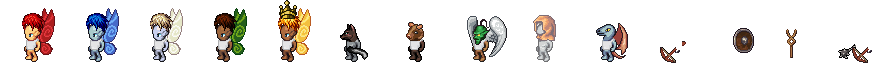
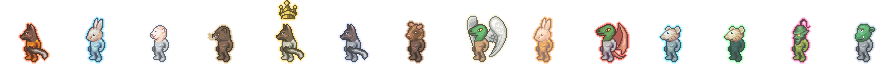
소환수를 모두 정령 같은 동물로: 동물 머리 + 속성 색 빛·반투명, 무기 그림 제거 (기공사 소환수는 번개 쥐·수호 쥐·광선 도깨비·철갑 트롤)
Claude-Session: https://claude.ai/code/session_01HhJ2NoNCjk5kaA3GWL7UDs

diff --git a/tools/iso/lpc/pet_lpc.py b/tools/iso/lpc/pet_lpc.py
@@ -1,4 +1,4 @@
-# 소환수·포탑을 LPC 부품으로 조립 → public/art/pets.png (64칸 14개, 왼쪽(적 쪽)을 보고 서 있는 모습)
+# 소환수(정령 같은 동물)를 LPC 부품으로 조립 → public/art/pets.png (64칸 14개, 왼쪽(적 쪽)을 보고 서 있는 모습)
 #   python3 pet_lpc.py <LPC 저장소 경로> [미리보기.png]   순서는 index.html의 XPETI(이름 → 칸)와 같아요
 import sys, os, subprocess
 sys.argv = sys.argv[:3]
@@ -11,23 +11,28 @@ SK = lambda dst, src='light': ('body', src, dst)
 CL = lambda dst: ('cloth', 'white', dst)
 HR = lambda dst: ('hair', 'orange', dst)
 CH = 'body/bodies/child'; SHIRT = 'torso/clothes/shirt/child'
-def spirit(skin, cloth, hair, wing, hat=None):
-    L = [(5, 'body/wings/pixie/solid', wing, None), (10, CH, None, SK(skin)), (100, 'head/heads/human/child', None, SK(skin)), (35, SHIRT, None, CL(cloth)), (120, 'hair/messy1', None, HR(hair)), (110, 'head/ears/elven/child', None, SK(skin))]
-    if hat: L.append((126, hat, None, None))
-    return L
-PETS = [  # 이름, 몸 체형, 층들, 알파
- ('불 정령', 'child', spirit('amber', 'red', 'red', 'red'), 1), ('물 정령', 'child', spirit('blue', 'sky', 'blue', 'blue'), 1),
- ('바람 정령', 'child', spirit('lavender', 'white', 'platinum', 'white'), 1), ('대지 정령', 'child', spirit('brown', 'forest', 'dark_brown', 'green'), 1),
- ('정령왕', 'child', spirit('bronze', 'yellow', 'gold', 'yellow', 'hat/formal/crown'), 1),
- ('늑대', 'child', [(5, 'body/tail/wolf/child', 'gray', None), (10, CH, None, SK('fur_grey')), (100, 'head/heads/wolf/child', None, None), (125, 'body/tail/wolf/child', 'gray', None)], 1),
- ('곰', 'child', [(10, CH, None, SK('fur_brown')), (100, 'head/heads/minotaur/child', None, None), (35, SHIRT, None, CL('brown'))], 1),
- ('독수리', 'child', [(5, 'body/wings/feathered/adult/bg', 'brown', None), (10, CH, None, SK('fur_tan')), (100, 'head/heads/goblin/child', None, None), (35, SHIRT, None, CL('tan')), (105.5, 'body/wings/feathered/adult/fg', 'brown', None)], 1),
- ('호박 유령', 'child', [(10, CH, None, SK('fur_white')), (100, 'head/heads/human/child', None, SK('fur_white')), (126, 'hat/cloth/hood', None, CL('orange'))], .62),
- ('용', 'child', [(5, 'body/wings/lizard/adult', None, None), (5.5, 'body/tail/lizard/child', None, None), (10, CH, None, SK('blue')), (100, 'head/heads/lizard/child', None, SK('blue', 'green')), (35, SHIRT, None, CL('maroon'))], 1),
- ('소형 포탑', 'male', [(10, 'weapon/ranged/crossbow/walk/crossbow.png', 'RAW', None), (9, 'weapon/ranged/crossbow/background/walk/crossbow.png', 'RAW', None), (11, 'weapon/ranged/crossbow/foreground/walk/crossbow.png', 'RAW', None)], 1),
- ('보조 포탑', 'male', [(10, 'shield/round/walk.png', 'RAWF', None)], 1),
- ('레이저 포탑', 'male', [(9, 'weapon/magic/diamond/universal/background/walk/diamond.png', 'RAW', None), (10, 'weapon/magic/diamond/universal/foreground/walk/diamond.png', 'RAW', None)], 1),
- ('요새 포대', 'male', [(10, 'weapon/blunt/mace/walk/mace.png', 'RAW', None), (9, 'weapon/blunt/mace/universal_behind/walk/mace.png', 'RAW', None), (11, 'weapon/ranged/crossbow/foreground/walk/crossbow.png', 'RAW', None)], 1),
+# 소환수는 모두 정령 같은 동물: 동물 머리 + 꼬마 몸(맨몸) + 속성 색 빛(번짐·반투명). 무기·옷 없음
+AU = lambda dst: ('body', 'auto', dst)
+def animal(head, skin, glow, extra=(), alpha=.86, tail=None):
+    L = [(10, CH, None, AU(skin)), (100, 'head/heads/' + head, None, None)] + list(extra)
+    if tail: L = [(5, tail, 'gray', None), (125, tail, 'gray', None)] + L
+    return (L, glow, alpha)
+CH = 'body/bodies/child'
+PETS = [  # 이름, 몸 체형, (층들, 빛 색, 투명도)
+ ('불 정령', 'child', animal('wolf/child', 'fur_copper', (255, 110, 50), tail='body/tail/wolf/child')),
+ ('물 정령', 'child', animal('rabbit/child', 'blue', (90, 210, 255))),
+ ('바람 정령', 'child', animal('sheep/child', 'fur_white', (225, 240, 255), alpha=.8)),
+ ('대지 정령', 'child', animal('boarman/child', 'fur_brown', (200, 160, 90))),
+ ('정령왕', 'child', animal('wolf/child', 'fur_white', (255, 214, 90), extra=[(126, 'hat/formal/crown', None, None)], tail='body/tail/wolf/child')),
+ ('늑대', 'child', animal('wolf/child', 'fur_grey', (200, 215, 255), tail='body/tail/wolf/child')),
+ ('곰', 'child', animal('minotaur/child', 'fur_brown', (170, 115, 70))),
+ ('독수리', 'child', animal('lizard/child', 'fur_tan', (240, 232, 190), extra=[(5, 'body/wings/feathered/adult/bg', 'brown', None), (105.5, 'body/wings/feathered/adult/fg', 'brown', None)])),
+ ('호박 유령', 'child', animal('rabbit/child', 'fur_copper', (255, 150, 40), alpha=.6)),
+ ('용', 'child', animal('lizard/child', 'blue', (255, 80, 60), extra=[(5, 'body/wings/lizard/adult', None, None), (5.5, 'body/tail/lizard/child', None, None)])),
+ ('소형 포탑', 'child', animal('mouse/child', 'fur_grey', (90, 230, 255))),
+ ('보조 포탑', 'child', animal('rat/child', 'fur_black', (120, 255, 150))),
+ ('레이저 포탑', 'child', animal('goblin/child', 'bright_green', (255, 100, 170))),
+ ('요새 포대', 'child', animal('troll/child', 'fur_grey', (170, 190, 210))),
 ]
 def frame(f):
     a = np.array(Image.open(os.path.join(LPC, f)).convert('RGBA')); y = ROWS['left'] * 64
@@ -40,21 +45,27 @@ def tryfind(p, c, g):
     if c: cand = [f for f in cand if c in f] or cand
     return cand[0] if cand else None
 plan = []; missing = []
-for name, g, L, al in PETS:
+for name, g, (L, glow, al) in PETS:
     ls = []
     for z, p, c, rc in L:
         if c in ('RAW', 'RAWF'): f = 'spritesheets/' + p
         else: f = tryfind(p, c, g)
         if f is None or f not in FILES: missing.append((name, p)); continue
         ls.append((z, f, rc))
-    plan.append((name, ls, al))
-need = sorted({f for _, L, _ in plan for _, f, _ in L if not os.path.exists(os.path.join(LPC, f))})
+    plan.append((name, ls, al, glow))
+need = sorted({f for _, L, _, _ in plan for _, f, _ in L if not os.path.exists(os.path.join(LPC, f))})
 if need: subprocess.run(['git', '-C', LPC, 'sparse-checkout', 'add', '--skip-checks', *need], check=True)
 sheet = np.zeros((64, 64 * len(plan), 4), np.uint8)
-for i, (name, L, al) in enumerate(plan):
+def dil(m):
+    d = m.copy(); d[1:] |= m[:-1]; d[:-1] |= m[1:]; d[:, 1:] |= m[:, :-1]; d[:, :-1] |= m[:, 1:]; return d
+for i, (name, L, al, glow) in enumerate(plan):
     cell = np.zeros((64, 64, 4), np.uint8)
     for z, f, rc in sorted(L, key=lambda t: t[0]): over(cell, recolor(frame(f), rc))
-    cell[..., 3] = (cell[..., 3] * al).astype(np.uint8); sheet[:, i * 64:(i + 1) * 64] = cell
+    m = cell[..., 3] > 0; r1 = dil(m) & ~m; r2 = dil(m | r1) & ~(m | r1)
+    cell[..., :3] = (cell[..., :3] * .82 + np.array(glow) * .18).astype(np.uint8)    # 속성 색을 살짝 입혀서 정령 느낌
+    cell[..., 3] = (cell[..., 3] * al).astype(np.uint8)
+    cell[r1] = (*glow, 190); cell[r2] = (*glow, 70)    # 빛 번짐
+    sheet[:, i * 64:(i + 1) * 64] = cell
 Image.fromarray(sheet).save(os.path.join(ROOT, 'public', 'art', 'pets.png'))
 print('없는 부품:', missing)
 if len(sys.argv) > 2:
